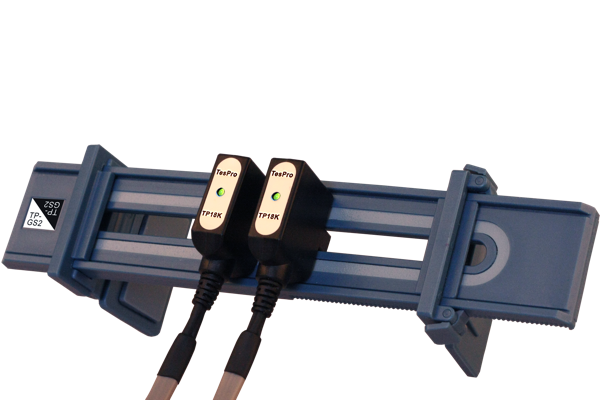
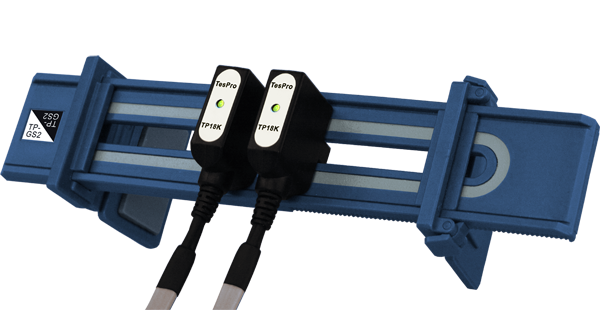
大量更新图片

diff --git a/css/tp_style.less b/css/tp_style.less
@@ -95,7 +95,7 @@ table.DataTable td input.Text{width:3em}
 #ProductpageTitle {
 	background: url(../images/banners/windpower.jpg) no-repeat center 40%;
 	color: white;
-	h1 {font-size: 5em;}
+	h1 {font-size: 3em; margin-top: 1em;}
 	p {font-size: 1.6em;}
 }
 #client-page-title {

diff --git a/css/tespro.css b/css/tespro.css
@@ -4415,7 +4415,8 @@ table.DataTable td input.Text {
   color: white;
 }
 #ProductpageTitle h1 {
-  font-size: 5em;
+  font-size: 3em;
+  margin-top: 1em;
 }
 #ProductpageTitle p {
   font-size: 1.6em;

diff --git a/zh/products.php b/zh/products.php
@@ -14,6 +14,7 @@
 	    <li data-target="#carousel-example-generic" data-slide-to="0" class="active"></li>
 	    <li data-target="#carousel-example-generic" data-slide-to="1"></li>
 	    <li data-target="#carousel-example-generic" data-slide-to="2"></li>
+	    <li data-target="#carousel-example-generic" data-slide-to="3"></li>
 	  </ol>
 
 	  <!-- Wrapper for slides -->
@@ -22,29 +23,63 @@
 	      <!-- <img src="images/banners/nanpu-bridge_blured.jpg" alt="..."> -->
 	      <div class="container">
 	      	<div class="row">
-						<div class="col-md-5 col-md-offset-1">
-		      		<h1>TP-USB</h1>
+						<div class="col-md-4 col-md-offset-1">
+		      		<h1>TP-USB 电表通讯光电头</h1>
 		      		<p>全世界最好用的光电头</p>
 			      </div>
-			      <div class="col-md-3">
-		      		<img src="images/banners/reading-meter.png" class="pull-right" style="margin-top: 20px; width: 240px;" />
+			      <div class="col-md-4 col-md-offset-1">
+		      		<img src="images/banners/highlights-tp-usb.png" class="pull-right" style="margin-top: 20px; height: 300px;" />
 			      </div>
     			</div>
 	    	</div>
 	      <div class="carousel-caption">
-	        TP-USB
+	        TP-USB 电表通讯光电头
 	      </div>
 	    </div>
 	    <div class="item">
 	      <!-- <img src="images/banners/nanpu-bridge_blured.jpg" alt="..."> -->
 	      <div class="container">
 	      	<div class="row">
-						<div class="col-md-5 col-md-offset-1">
-		      		<h1>TP-232</h1>
-		      		<p>全世界第二好用的光电头</p>
+						<div class="col-md-4 col-md-offset-1">
+		      		<h1>电表校验光电头</h1>
+		      		<!-- <p>全世界第二好用的光电头</p> -->
 			      </div>
-			      <div class="col-md-3">
-		      		<img src="images/banners/reading-meter.png" class="pull-right" style="margin-top: 20px; width: 240px;" />
+			      <div class="col-md-4 col-md-offset-1">
+		      		<img src="images/banners/highlights-accuracy-probes.png" class="pull-right" style="margin-top: 20px; height: 300px;" />
+			      </div>
+    			</div>
+	    	</div>
+	      <div class="carousel-caption">
+	        电表校验光电头
+	      </div>
+	    </div>
+	    <div class="item">
+	      <!-- <img src="images/banners/nanpu-bridge_blured.jpg" alt="..."> -->
+	      <div class="container">
+	      	<div class="row">
+						<div class="col-md-4 col-md-offset-1">
+		      		<h1>TD-2303</h1>
+		      		<!-- <p>全世界第二好用的光电头</p> -->
+			      </div>
+			      <div class="col-md-4 col-md-offset-1">
+		      		<img src="images/banners/highlights-td-2303.png" class="pull-right" style="margin-top: 20px; height: 300px;" />
+			      </div>
+    			</div>
+	    	</div>
+	      <div class="carousel-caption">
+	        TD-2303
+	      </div>
+	    </div>
+	    <div class="item">
+	      <!-- <img src="images/banners/nanpu-bridge_blured.jpg" alt="..."> -->
+	      <div class="container">
+	      	<div class="row">
+						<div class="col-md-4 col-md-offset-1">
+		      		<h1>TP-232</h1>
+		      		<!-- <p>全世界第二好用的光电头</p> -->
+			      </div>
+			      <div class="col-md-4 col-md-offset-1">
+		      		<img src="images/banners/highlights-tp-232.png" class="pull-right" style="margin-top: 20px; height: 300px;" />
 			      </div>
     			</div>
 	    	</div>

diff --git a/en/products.php b/en/products.php
@@ -24,29 +24,63 @@
 	      <!-- <img src="images/banners/nanpu-bridge_blured.jpg" alt="..."> -->
 	      <div class="container">
 	      	<div class="row">
-						<div class="col-md-5 col-md-offset-1">
-		      		<h1>TP-USB</h1>
+						<div class="col-md-4 col-md-offset-1">
+		      		<h1>TP-USB 电表通讯光电头</h1>
 		      		<p>全世界最好用的光电头</p>
 			      </div>
-			      <div class="col-md-3">
-		      		<img src="images/banners/reading-meter.png" class="pull-right" style="margin-top: 20px; width: 240px;" />
+			      <div class="col-md-4 col-md-offset-1">
+		      		<img src="images/banners/highlights-tp-usb.png" class="pull-right" style="margin-top: 20px; height: 300px;" />
 			      </div>
     			</div>
 	    	</div>
 	      <div class="carousel-caption">
-	        TP-USB
+	        TP-USB 电表通讯光电头
 	      </div>
 	    </div>
 	    <div class="item">
 	      <!-- <img src="images/banners/nanpu-bridge_blured.jpg" alt="..."> -->
 	      <div class="container">
 	      	<div class="row">
-						<div class="col-md-5 col-md-offset-1">
-		      		<h1>TP-232</h1>
-		      		<p>全世界第二好用的光电头</p>
+						<div class="col-md-4 col-md-offset-1">
+		      		<h1>电表校验光电头</h1>
+		      		<!-- <p>全世界第二好用的光电头</p> -->
 			      </div>
-			      <div class="col-md-3">
-		      		<img src="images/banners/reading-meter.png" class="pull-right" style="margin-top: 20px; width: 240px;" />
+			      <div class="col-md-4 col-md-offset-1">
+		      		<img src="images/banners/highlights-accuracy-probes.png" class="pull-right" style="margin-top: 20px; height: 300px;" />
+			      </div>
+    			</div>
+	    	</div>
+	      <div class="carousel-caption">
+	        电表校验光电头
+	      </div>
+	    </div>
+	    <div class="item">
+	      <!-- <img src="images/banners/nanpu-bridge_blured.jpg" alt="..."> -->
+	      <div class="container">
+	      	<div class="row">
+						<div class="col-md-4 col-md-offset-1">
+		      		<h1>TD-2303</h1>
+		      		<!-- <p>全世界第二好用的光电头</p> -->
+			      </div>
+			      <div class="col-md-4 col-md-offset-1">
+		      		<img src="images/banners/highlights-td-2303.png" class="pull-right" style="margin-top: 20px; height: 300px;" />
+			      </div>
+    			</div>
+	    	</div>
+	      <div class="carousel-caption">
+	        TD-2303
+	      </div>
+	    </div>
+	    <div class="item">
+	      <!-- <img src="images/banners/nanpu-bridge_blured.jpg" alt="..."> -->
+	      <div class="container">
+	      	<div class="row">
+						<div class="col-md-4 col-md-offset-1">
+		      		<h1>TP-232</h1>
+		      		<!-- <p>全世界第二好用的光电头</p> -->
+			      </div>
+			      <div class="col-md-4 col-md-offset-1">
+		      		<img src="images/banners/highlights-tp-232.png" class="pull-right" style="margin-top: 20px; height: 300px;" />
 			      </div>
     			</div>
 	    	</div>

diff --git a/zh/TA-800.php b/zh/TA-800.php
@@ -15,7 +15,7 @@
 					<!-- <p>2002年泰易开创性地采用RS232接口供电，领先于国际，从此去掉附加电池盒，为使用光电头减轻包袱，应用提速。</p> -->
 			  </div>
 			  <div class="col-md-4 col-sm-5">
-			  	<img src="images/products/product_TA-800.jpg" alt="TA-800 多规约计量数据分析仪" class="pull-right" style="margin-top: 10px; width: 260px;" />
+			  	<img src="images/banners/ta-800.png" alt="TA-800 多规约计量数据分析仪" class="pull-right" style="margin-top: 10px; width: 400px;" />
 			  </div>
 			</div>		
 		</div>

diff --git a/zh/TA-262.php b/zh/TA-262.php
@@ -42,7 +42,7 @@
 				<p>始于2005年原创设计的多功能通讯测试仪，是TA-261的升级版，性能更加完善。</p>
 			</div><!-- ./Left Column -->
 			<div class="col-sm-4 right-column"><!-- Right Column -->
-				<img src="images/products/ta-262-01.jpg" alt="TA-262 电表通讯接口测试器" />
+				<img src="images/products/product_TA-262.jpg" alt="TA-262 电表通讯接口测试器" />
 				<!-- <img src="images/products/product_TA-262_zh.png" alt="TA-261电表通讯接口测试器" /> -->
 			</div>
 		</div>

diff --git a/en/TA-262.php b/en/TA-262.php
@@ -48,7 +48,7 @@
 				<p class="HighLight">TA-262 is originally designed and manufactured by Tespro Electronics Co., Ltd.</p>
 			</div><!-- ./Left Column -->
 			<div class="col-sm-4 right-column"><!-- Right Column -->
-				<img src="images/products/ta-262-01.jpg" alt="TA-262 Communication Port Tester" />
+				<img src="images/products/product_TA-262.jpg" alt="TA-262 Communication Port Tester" />
 				<!-- <img src="images/products/product_TA-262_zh.png" alt="TA-262 Communication Port Tester" /> -->
 			</div>
 		</div>

diff --git a/zh/TP-GS.php b/zh/TP-GS.php
@@ -49,7 +49,7 @@
 				</ul>
 			</div><!-- ./Left Column -->
 			<div class="col-sm-4 right-column"><!-- Right Column -->
-				<!-- <img src="images/products/product_TP-GS08.jpg" alt="TP-GS 通用光电头活动支架" /> -->
+				<img src="images/products/product_TP-GS.jpg" alt="TP-GS 通用光电头活动支架" />
 				<!-- <img src="images/products/product_TP-GS_demo.jpg" alt="TP-GS 通用光电头活动支架" /> -->
 			</div>
 		</div>

diff --git a/en/TP-GS.php b/en/TP-GS.php
@@ -41,7 +41,7 @@
 			</div>
 			<div class="col-sm-4 right-column">
 				<!-- <img src="images/products/product_TP-GS08.jpg" alt="TP-GS Versatile Probe Bracket" /> -->
-				<img src="images/products/product_TP-GS08_demo.jpg" alt="TP-GS Versatile Probe Bracket" />
+				<img src="images/products/product_TP-GS.jpg" alt="TP-GS Versatile Probe Bracket" />
 			</div>
 		</div><!-- ./row -->
 	</div><!-- ./container -->

diff --git a/zh/TA-261.php b/zh/TA-261.php
@@ -41,7 +41,7 @@
 				<p>低成本和高性价比，便于普及推广。</p>
 			</div><!-- ./Left Column -->
 			<div class="col-sm-4 right-column"><!-- Right Column -->
-				<img src="images/products/TA-261-01.jpg" alt="TA-261电表通讯接口测试器" />
+				<img src="images/products/product_TA-261.jpg" alt="TA-261电表通讯接口测试器" />
 			</div>
 		</div>
 	</div>

diff --git a/zh/TC-PCB-01.php b/zh/TC-PCB-01.php
@@ -42,7 +42,7 @@
 				</ul>
 			</div><!-- ./Left Column -->
 			<div class="col-sm-4 right-column"><!-- Right Column -->
-				<img src="images/products/product_TC-PCB-02.jpg" alt="TC-PCB-01 半自动PCB测试台" />
+				<img src="images/products/product_TC-PCB-01.jpg" alt="TC-PCB-01 半自动PCB测试台" />
 			</div>
 		</div>
 	</div>
